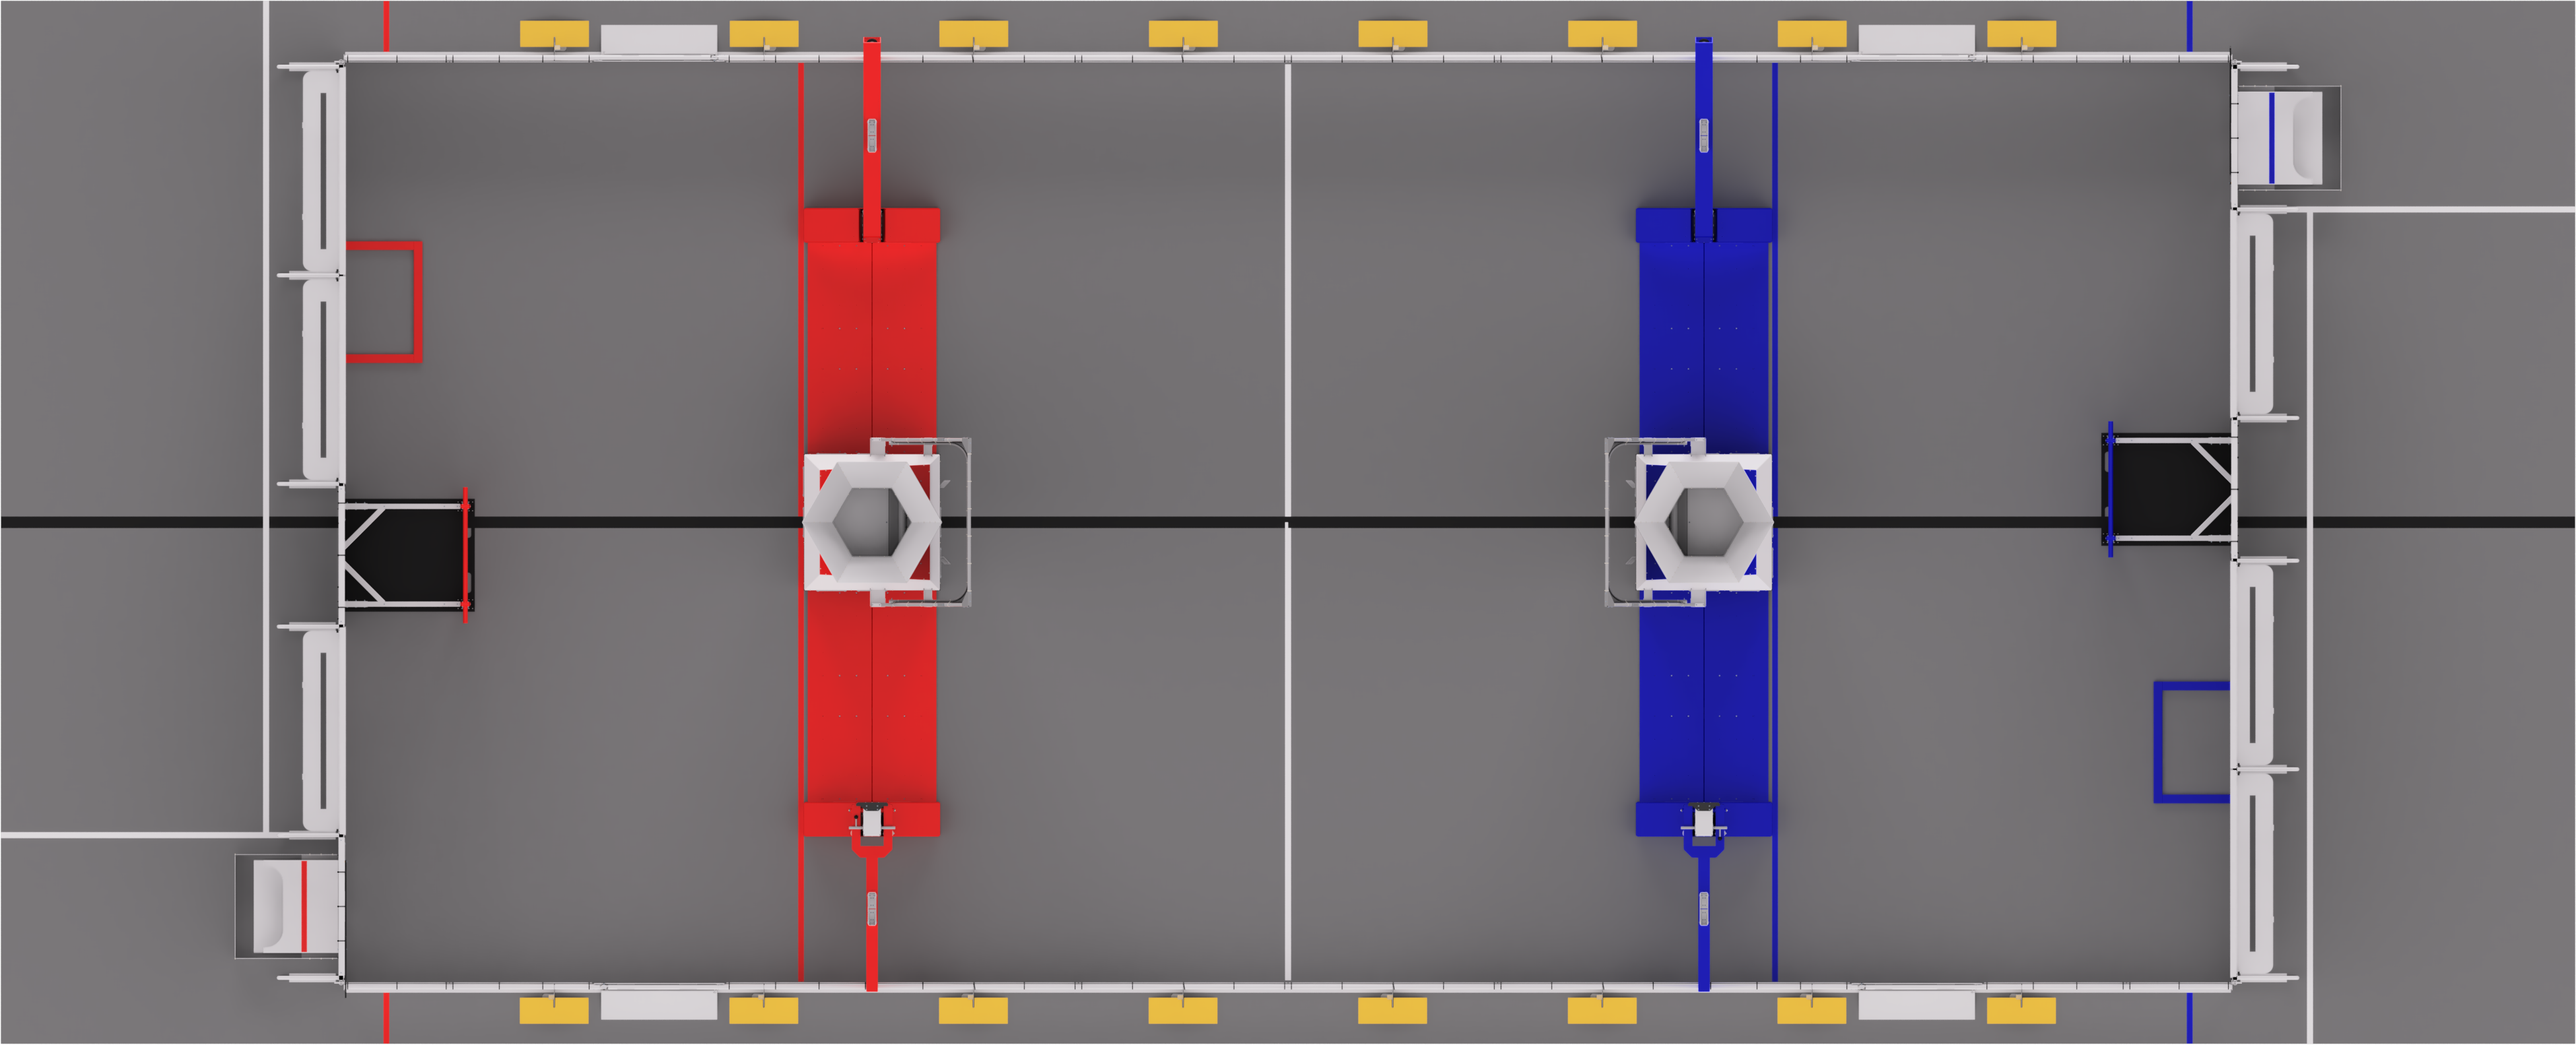
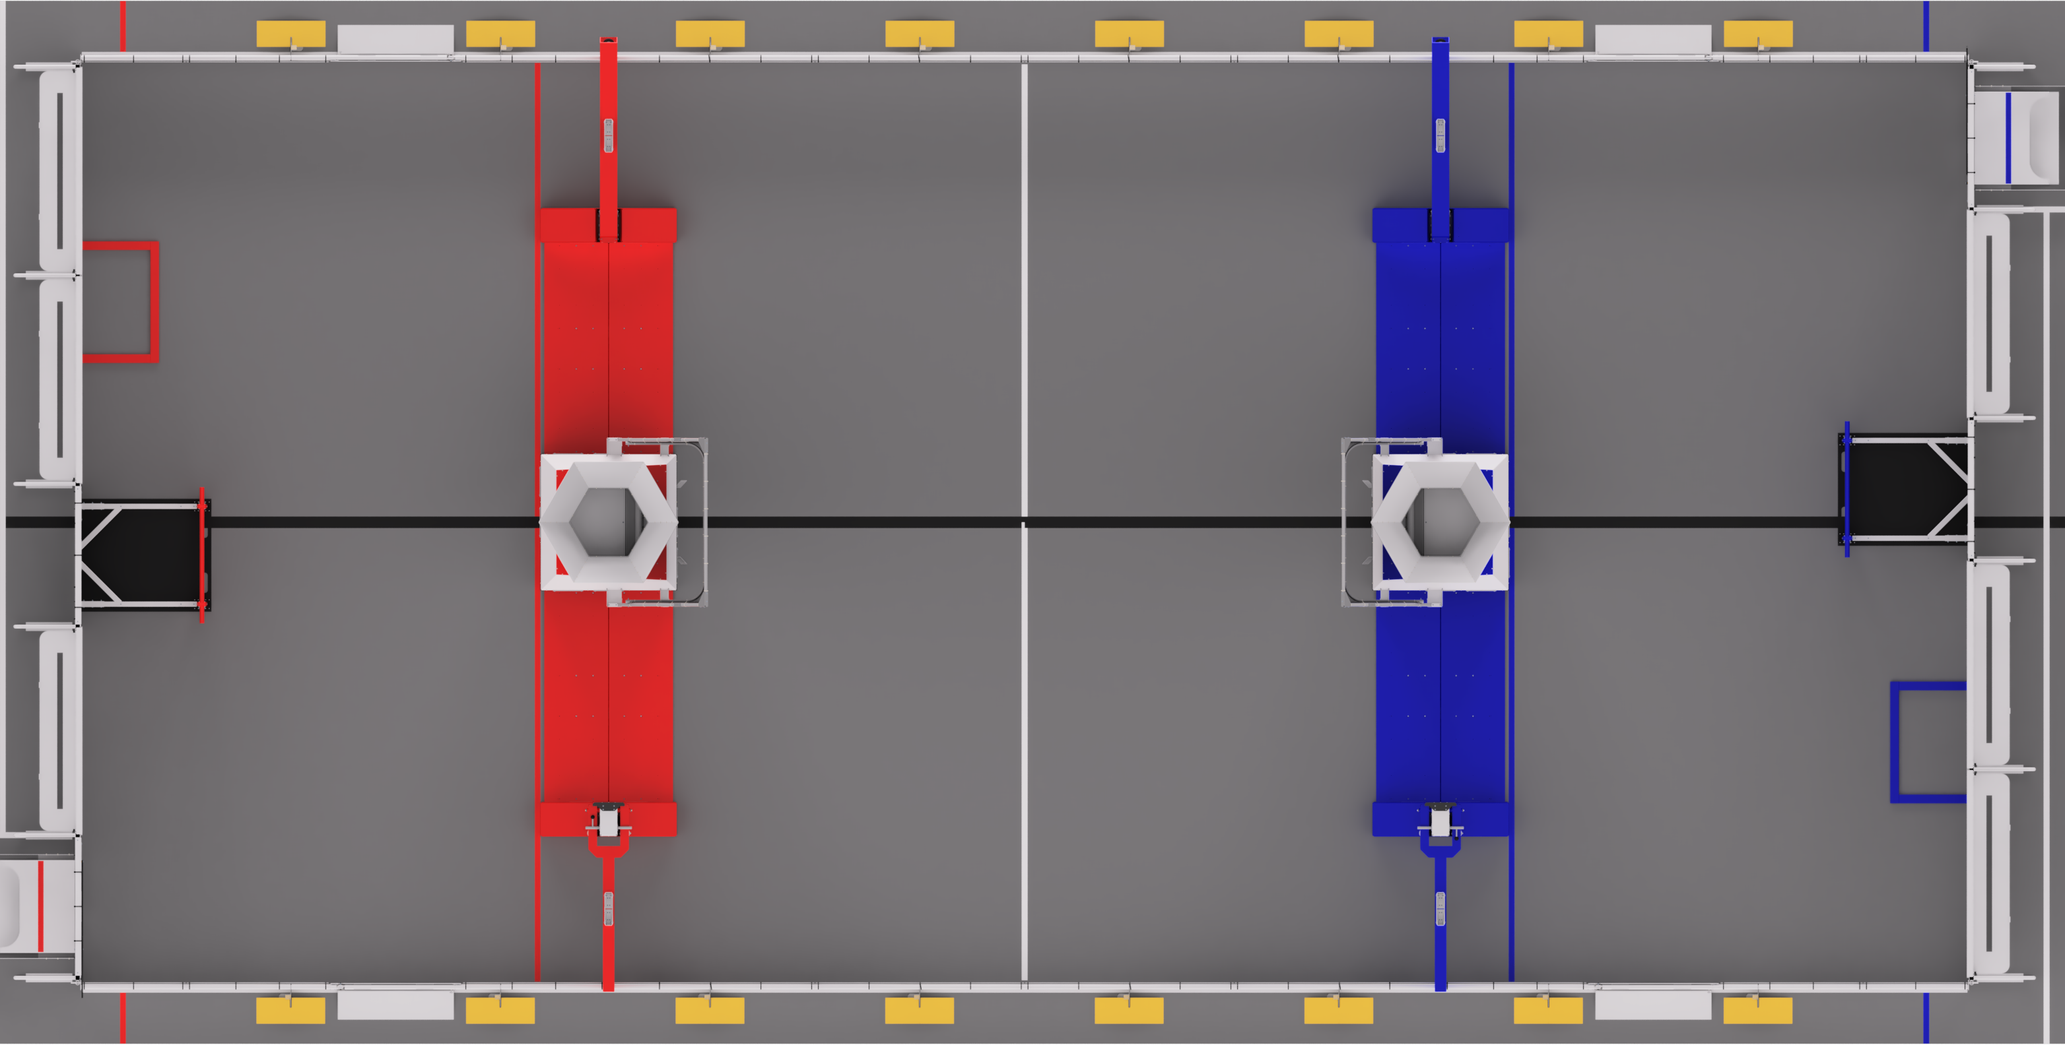
fix: remove starting zone overlays from path viewer, update field image

diff --git a/src/pages/PathViewerPage.tsx b/src/pages/PathViewerPage.tsx
@@ -20,11 +20,6 @@ interface PathData {
   flipped: boolean;
 }
 
-// Starting zone configuration (must match scouting app constants.ts)
-const STARTING_ZONE_WIDTH = 3.5;
-const RED_STARTING_ZONE_OFFSET = 25;
-const BLUE_STARTING_ZONE_OFFSET = 68;
-
 // 預設路徑顏色
 const PATH_COLORS = [
   '#22c55e', // green
@@ -202,27 +197,6 @@ export function PathViewerPage() {
             className="absolute inset-0 w-full h-full"
             viewBox="0 0 200 100"
           >
-            {/* Starting zones */}
-            <rect
-              x={RED_STARTING_ZONE_OFFSET * 2}
-              y={0}
-              width={STARTING_ZONE_WIDTH * 2}
-              height={100}
-              fill="rgba(239, 68, 68, 0.15)"
-              stroke="rgba(239, 68, 68, 0.4)"
-              strokeWidth="0.5"
-              strokeDasharray="3 2"
-            />
-            <rect
-              x={BLUE_STARTING_ZONE_OFFSET * 2}
-              y={0}
-              width={STARTING_ZONE_WIDTH * 2}
-              height={100}
-              fill="rgba(59, 130, 246, 0.15)"
-              stroke="rgba(59, 130, 246, 0.4)"
-              strokeWidth="0.5"
-              strokeDasharray="3 2"
-            />
             {paths.filter(p => p.visible).map(path => {
               const rawPoints = parsePathString(path.coords);
               if (rawPoints.length < 2) return null;
